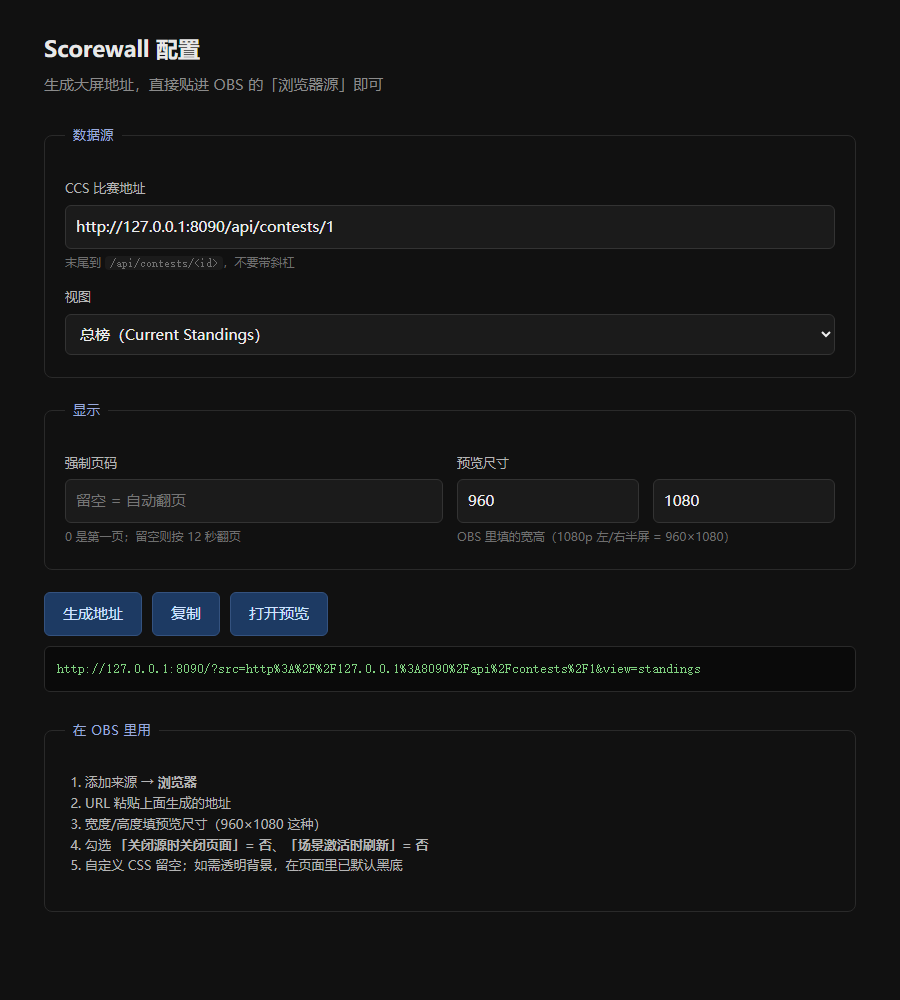
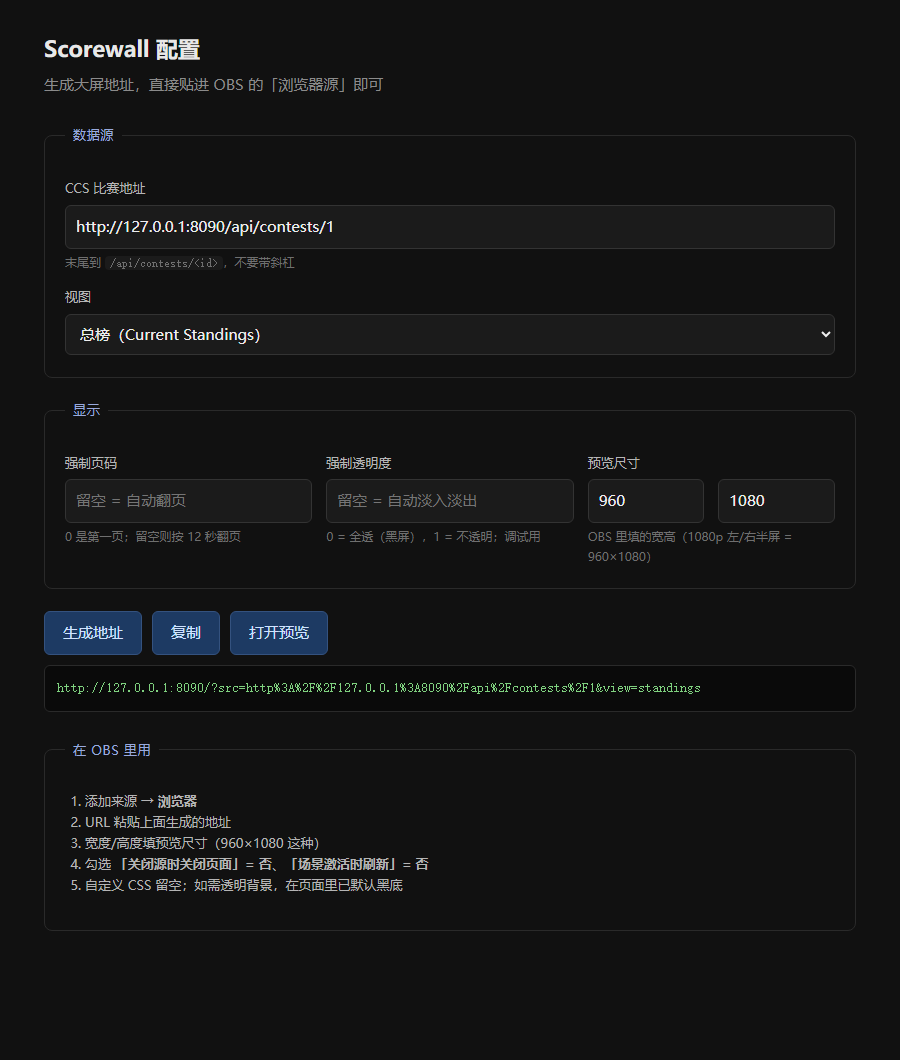
feat: 配置页支持强制透明度参数

diff --git a/src/config.html b/src/config.html
@@ -58,6 +58,11 @@
           <div class="hint">0 是第一页；留空则按 12 秒翻页</div>
         </div>
         <div>
+          <label>强制透明度</label>
+          <input id="fade" type="number" min="0" max="1" step="0.05" placeholder="留空 = 自动淡入淡出">
+          <div class="hint">0 = 全透（黑屏），1 = 不透明；调试用</div>
+        </div>
+        <div>
           <label>预览尺寸</label>
           <div class="row">
             <div><input id="w" type="number" value="960"></div>
@@ -97,6 +102,7 @@
     p.set('src', $('src').value.trim());
     p.set('view', $('view').value);
     if ($('page').value !== '') p.set('page', $('page').value);
+    if ($('fade').value !== '') p.set('fade', $('fade').value);
     return p.toString();
   };
   function build(absolute) {
@@ -114,7 +120,7 @@
           $('copy').textContent = '已复制'; setTimeout(() => $('copy').textContent = '复制', 1200); }
     catch (_) { $('copy').textContent = '复制失败'; }
   };
-  ['src','view','page'].forEach(id => $(id).addEventListener('input', refresh));
+  ['src','view','page','fade'].forEach(id => $(id).addEventListener('input', refresh));
   refresh();
 })();
 </script>
